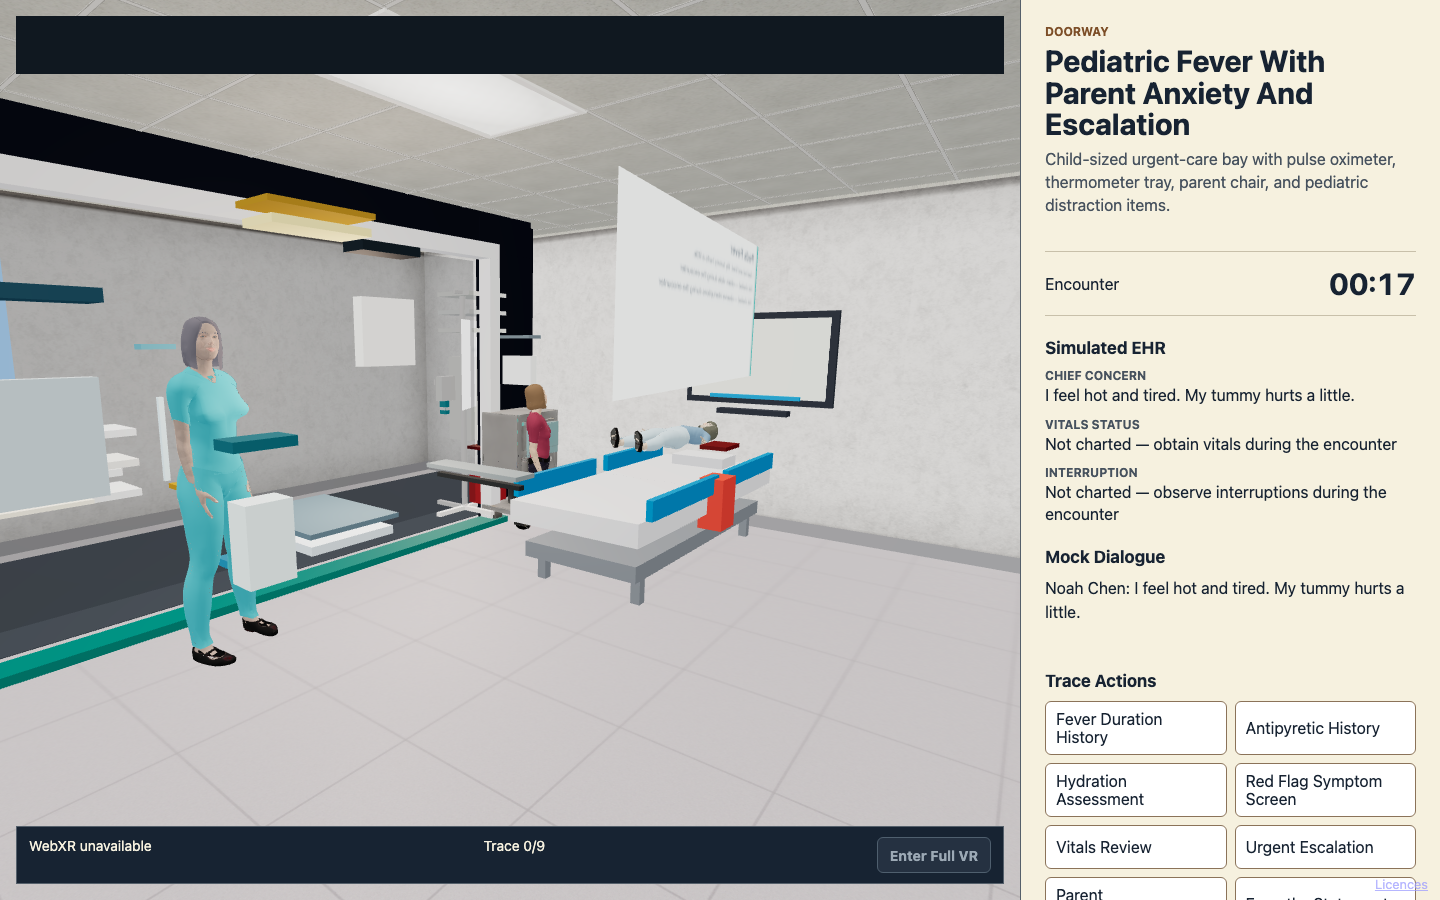
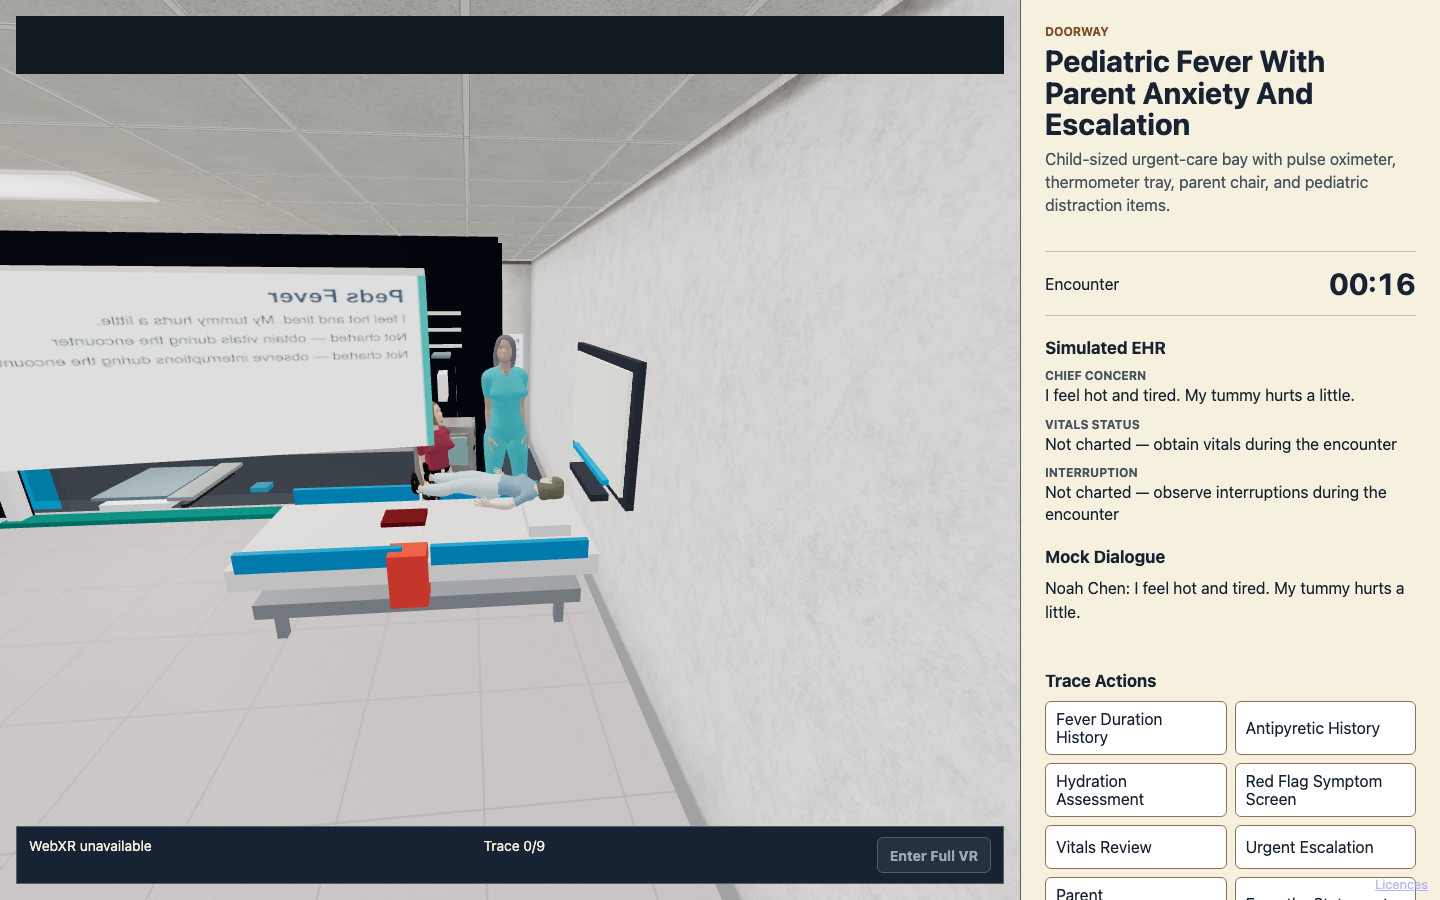
worker: in-scope file commit

diff --git a/tools/openclinxr/staging-solver/layout-search.ts b/tools/openclinxr/staging-solver/layout-search.ts
@@ -35,6 +35,48 @@ function insideInterior(box: AxisAlignedBox, interior: AxisAlignedBox): boolean 
     && box.min[2] >= interior.min[2] + 0.08 && box.max[2] <= interior.max[2] - 0.08;
 }
 
+// Room-shell meshes (walls, floor slabs, ceilings, exterior shells, anteroom
+// shell parts) span the room, so their AABBs contain every in-interior actor
+// candidate and would veto all placements. Containment inside the interior box
+// already bounds actors, so placement collision skips them. Visibility and
+// near-occlusion math is untouched: walls genuinely occlude and the gate probe
+// path already skips boxes containing the camera.
+function isRoomShellName(name: string): boolean {
+  return /wall|floor|ceiling|exterior|shell/i.test(name);
+}
+
+function isSkippedFixtureName(name: string): boolean {
+  return /portal|review-panel|review_panel|capture-cue|capture_cue|patient-note-capture|patient_note_capture/i.test(name);
+}
+
+// Name-agnostic backstop for shell slabs that dodge the name classes (renamed
+// room shells, merged shell geometry). Threshold 0.5 separates with wide
+// margin: shell slabs cover ~all of the interior footprint (floor_field
+// 6.47x6.79 m over a 6.47x6.79 m interior ~= 1.0), while the largest
+// legitimate furniture (stretcher base 2.02x0.79 m ~= 1.6 m^2 over a ~44 m^2
+// interior ~= 0.04) sits more than 10x below.
+function coversInteriorFootprint(box: AxisAlignedBox, interior: AxisAlignedBox): boolean {
+  const interiorArea = (interior.max[0] - interior.min[0]) * (interior.max[2] - interior.min[2]);
+  if (!(interiorArea > 0)) return false;
+  const footprint = (box.max[0] - box.min[0]) * (box.max[2] - box.min[2]);
+  return footprint / interiorArea >= 0.5;
+}
+
+export function isPlacementShellFixture(name: string, box: AxisAlignedBox, interior: AxisAlignedBox): boolean {
+  return isRoomShellName(name) || isSkippedFixtureName(name) || coversInteriorFootprint(box, interior);
+}
+
+export function capsuleRadiusMeters(bodyDimensions: readonly number[] | undefined): number {
+  const width = bodyDimensions?.[0];
+  if (typeof width === "number" && Number.isFinite(width) && width >= 0.15 && width <= 0.35) return width / 2;
+  return 0.22;
+}
+
+export function capsuleForPlacement(world: readonly [number, number, number], radius: number, standing: boolean): AxisAlignedBox {
+  const height = standing ? 1.7 : 1.3;
+  return { min: [world[0] - radius, world[1] - height / 2, world[2] - radius], max: [world[0] + radius, world[1] + height / 2, world[2] + radius] };
+}
+
 function supportKind(name: string): "stretcher" | "bed" | "exam_table" {
   if (/exam[_ -]?table|exam_surface/i.test(name)) return "exam_table";
   if (/stretcher/i.test(name)) return "stretcher";
@@ -57,13 +99,18 @@ function assignmentCandidates(snapshot: CachedSceneSnapshot, actor: CachedSceneS
   const head: [number, number] = [supportCentre[0] + long[0] * halfLong, supportCentre[2] + long[1] * halfLong];
   const foot: [number, number] = [supportCentre[0] - long[0] * halfLong, supportCentre[2] - long[1] * halfLong];
   const seated = actor.currentPlacement.supportSurface === "chair";
-  const templates = templatesForRole(actor.role, seated);
+  const templateSets = seated
+    ? [templatesForRole(actor.role, true), templatesForRole(actor.role, false)]
+    : [templatesForRole(actor.role, false)];
   const chairs = [...snapshot.companionSeats].sort((a, b) => {
     const ac = centre(a.box), bc = centre(b.box);
     return Math.hypot(ac[0] - patientHead[0], ac[2] - patientHead[2])
       - Math.hypot(bc[0] - patientHead[0], bc[2] - patientHead[2]) || a.name.localeCompare(b.name);
   });
-  const output: LayoutCandidate[] = [];
+  let output: LayoutCandidate[] = [];
+  const actorRadius = capsuleRadiusMeters(actor.bodyDimensions);
+  for (const templates of templateSets) {
+    const attempt: LayoutCandidate[] = [];
   for (const template of templates) {
     const chair = template.anchor === "chair" ? chairs[0] : undefined;
     if (template.anchor === "chair" && !chair) continue;
@@ -76,11 +123,13 @@ function assignmentCandidates(snapshot: CachedSceneSnapshot, actor: CachedSceneS
       const x = base[0] + long[0] * alongOffset + side[0] * acrossOffset;
       const z = base[1] + long[1] * alongOffset + side[1] * acrossOffset;
       const box = translateBox(actor.box, x, z);
+      const capsule = capsuleForPlacement([x, centre(actor.box)[1], z], actorRadius, actor.standing);
       if (!insideInterior(box, snapshot.interior)) continue;
       const collides = snapshot.fixtures.some((fixture) => {
         if (chair && fixture.name === chair.name) return false;
-        if (fixture.name === support.name && actor.role === "patient") return false;
-        return intersects(box, fixture.box, 0.03);
+        if (isPlacementShellFixture(fixture.name, fixture.box, snapshot.interior)) return false;
+        if (fixture.name === support.name) return actor.role !== "patient" ? intersects(capsule, fixture.box, 0.03) : false;
+        return intersects(capsule, fixture.box, 0.03);
       });
       if (collides) continue;
       const targetHeading = Math.atan2(patientHead[0] - x, patientHead[2] - z);
@@ -100,10 +149,13 @@ function assignmentCandidates(snapshot: CachedSceneSnapshot, actor: CachedSceneS
         },
         headingRadians: heading,
       };
-      output.push({ actorId: actor.id, slotId: template.slotId, world: [x, centre(actor.box)[1], z],
-        headingRadians: heading, placement, box, standing: actor.standing,
+      attempt.push({ actorId: actor.id, slotId: template.slotId, world: [x, centre(actor.box)[1], z],
+        headingRadians: heading, placement, box: capsule, standing: actor.standing,
         cost: Math.hypot(alongOffset, acrossOffset) + Math.abs(headingDelta) / Math.PI });
     }
+  }
+    if (attempt.length > 0 || templateSets.indexOf(templates) === templateSets.length - 1) output = attempt;
+    if (output.length > 0) break;
   }
   return output.sort((a, b) => a.cost - b.cost || a.slotId.localeCompare(b.slotId)
     || a.world[0] - b.world[0] || a.world[2] - b.world[2] || a.headingRadians - b.headingRadians);
@@ -111,6 +163,7 @@ function assignmentCandidates(snapshot: CachedSceneSnapshot, actor: CachedSceneS
 
 function compatible(candidate: LayoutCandidate, assigned: readonly LayoutCandidate[]): boolean {
   return assigned.every((other) => {
+    if (other.slotId === "patient_on_authored_support" || candidate.slotId === "patient_on_authored_support") return true;
     if (candidate.standing && other.standing
       && Math.hypot(candidate.world[0] - other.world[0], candidate.world[2] - other.world[2]) < 0.45) return false;
     return !intersects(candidate.box, other.box, 0.02);

diff --git a/tools/openclinxr/staging-solver/staging-solver.test.ts b/tools/openclinxr/staging-solver/staging-solver.test.ts
@@ -37,6 +37,52 @@ describe("clinical staging layout search", () => {
     expect(Math.abs(family?.world[0] ?? 99)).toBeLessThan(2);
   });
 
+  it("ignores a room-spanning named shell box for placement", () => {
+    const snapshot = counterweightSnapshot();
+    snapshot.fixtures.push({ name: "bedroom_00wall", kind: "fixture",
+      box: { min: [-3, 0, -3], max: [5, 3, 3] } });
+    const result = searchClinicalLayouts(snapshot);
+    expect(result.layouts.length).toBeGreaterThan(0);
+    const family = result.layouts[0]?.find((row) => row.actorId === "family");
+    expect(family?.slotId).toBe("companion_bedside");
+    expect(Math.abs(family?.world[0] ?? 99)).toBeLessThan(2);
+  });
+
+  it("ignores a room-spanning slab with a non-shell name via footprint coverage", () => {
+    const snapshot = counterweightSnapshot();
+    snapshot.fixtures.push({ name: "mystery_slab_01", kind: "fixture",
+      box: { min: [-3, 0, -3], max: [5, 3, 3] } });
+    const result = searchClinicalLayouts(snapshot);
+    expect(result.layouts.length).toBeGreaterThan(0);
+    const family = result.layouts[0]?.find((row) => row.actorId === "family");
+    expect(family?.slotId).toBe("companion_bedside");
+    expect(Math.abs(family?.world[0] ?? 99)).toBeLessThan(2);
+  });
+
+  it("still places away from a real small fixture", () => {
+    const baseline = searchClinicalLayouts(counterweightSnapshot());
+    const first = baseline.layouts[0]?.find((row) => row.actorId === "family");
+    expect(first).toBeDefined();
+    const [bx, , bz] = first?.world ?? [0, 0, 0];
+    // Thin sliver through the best cell: vetoes its grid neighbourhood in x
+    // while leaving the ±0.3 m grid edges placeable, so the solver must move.
+    const snapshot = counterweightSnapshot();
+    snapshot.fixtures.push({ name: "supply_cabinet_edge", kind: "fixture",
+      box: { min: [bx - 0.01, 0, bz - 0.4], max: [bx + 0.01, 1.7, bz + 0.4] } });
+    const result = searchClinicalLayouts(snapshot);
+    expect(result.layouts.length).toBeGreaterThan(0);
+    const family = result.layouts[0]?.find((row) => row.actorId === "family");
+    expect(family).toBeDefined();
+    const moved = Math.hypot((family?.world[0] ?? bx) - bx, (family?.world[2] ?? bz) - bz);
+    expect(moved).toBeGreaterThan(0.05);
+    const box = family?.box;
+    const hits = box !== undefined
+      && box.min[0] < bx + 0.01 + 0.03 && box.max[0] > bx - 0.01 - 0.03
+      && box.min[1] < 1.7 && box.max[1] > 0
+      && box.min[2] < bz + 0.4 + 0.03 && box.max[2] > bz - 0.4 - 0.03;
+    expect(hits).toBe(false);
+  });
+
   it("produces byte-identical output for two runs on the same snapshot", () => {
     const snapshot = counterweightSnapshot();
     expect(JSON.stringify(searchClinicalLayouts(snapshot))).toBe(JSON.stringify(searchClinicalLayouts(snapshot)));

diff --git a/tools/openclinxr/staging-solver/snapshot-resolves.test.ts b/tools/openclinxr/staging-solver/snapshot-resolves.test.ts
@@ -1,0 +1,51 @@
+import { readFileSync } from "node:fs";
+import { dirname, join } from "node:path";
+import { fileURLToPath } from "node:url";
+import { describe, expect, it } from "vitest";
+import { searchClinicalLayouts } from "./layout-search.js";
+import type { CachedSceneSnapshot } from "./staging-types.js";
+
+const HERE = dirname(fileURLToPath(import.meta.url));
+const REPO_ROOT = join(HERE, "../../..");
+
+function loadSnapshot(scenarioId: string): CachedSceneSnapshot {
+  const raw = readFileSync(join(REPO_ROOT, ".openclinxr/staging-solver", scenarioId, "scene-snapshot.json"), "utf8");
+  return JSON.parse(raw) as CachedSceneSnapshot;
+}
+
+function intersects(a: CachedSceneSnapshot extends never ? never : { min: [number, number, number]; max: [number, number, number] }, b: { min: [number, number, number]; max: [number, number, number] }, pad = 0): boolean {
+  return a.min[0] < b.max[0] + pad && a.max[0] > b.min[0] - pad
+    && a.min[1] < b.max[1] && a.max[1] > b.min[1]
+    && a.min[2] < b.max[2] + pad && a.max[2] > b.min[2] - pad;
+}
+
+describe("cached snapshot layouts resolve", () => {
+  for (const scenarioId of ["peds_fever_v1", "adult_abdominal_pain_v1"]) {
+    it(`${scenarioId} returns a legal layout`, () => {
+      const snapshot = loadSnapshot(scenarioId);
+      const result = searchClinicalLayouts(snapshot);
+      expect(result.layouts.length).toBeGreaterThan(0);
+      const first = result.layouts[0];
+      expect(first).toBeDefined();
+      if (!first) return;
+      const support = [...snapshot.patientSupports].sort(
+        (a, b) => (b.box.max[0] - b.box.min[0]) * (b.box.max[2] - b.box.min[2])
+          - (a.box.max[0] - a.box.min[0]) * (a.box.max[2] - a.box.min[2]),
+      )[0];
+      expect(support).toBeDefined();
+      for (let i = 0; i < first.length; i += 1) {
+        for (let j = i + 1; j < first.length; j += 1) {
+          const a = first[i]?.box, b = first[j]?.box;
+          if (!a || !b) continue;
+          const aPatient = first[i]?.slotId === "patient_on_authored_support";
+          const bPatient = first[j]?.slotId === "patient_on_authored_support";
+          if (aPatient || bPatient) continue;
+          expect(intersects(a, b, 0.02)).toBe(false);
+        }
+        const row = first[i];
+        if (!row || row.slotId === "patient_on_authored_support" || !support) continue;
+        expect(intersects(row.box, support.box, 0.03)).toBe(false);
+      }
+    });
+  }
+});

diff --git a/tools/openclinxr/evidence/ui-xr-environment-room-capture.ts b/tools/openclinxr/evidence/ui-xr-environment-room-capture.ts
@@ -16,6 +16,7 @@ import { existsSync, readdirSync } from "node:fs";
 import { mkdir, writeFile } from "node:fs/promises";
 import path from "node:path";
 import { fileURLToPath } from "node:url";
+import { authoredStagingCameraForScenario } from "@openclinxr/scenario-fixtures";
 import { deriveDoorwayOverviewCameraForEnvironment } from "./doorway-overview-camera.js";
 import { type PortlessDevServer, spawnPortlessDevServer, stopPortlessDevServer } from "./lib/portless-server.js";
 import { chromium, type Page } from "./lib/slotted-playwright.js";
@@ -196,15 +197,12 @@ export const ROOM_CAPTURE_MODE = "scene-overview";
 
 export type AuthoredStagingCamera = { eye: [number, number, number]; look: [number, number, number]; fov: number };
 
-function readAuthoredStagingCamera(): AuthoredStagingCamera | undefined {
-  return undefined;
+function readAuthoredStagingCamera(scenarioId: string): AuthoredStagingCamera | undefined {
+  return authoredStagingCameraForScenario(scenarioId);
 }
 
 export async function applyAuthoredStagingCamera(page: Page, scenarioId: string): Promise<string | null> {
-  // Solver camera records are emitted as evidence.  Runtime actor placement remains
-  // fixture-owned; absent a published camera field, standard capture uses its
-  // existing refinement path rather than importing a private fixture module.
-  const authored = readAuthoredStagingCamera();
+  const authored = readAuthoredStagingCamera(scenarioId);
   if (!authored) return null;
   const note = await page.evaluate((input) => {
     type Camera = {

diff --git a/tools/openclinxr/staging-solver/clinical-slot-templates.ts b/tools/openclinxr/staging-solver/clinical-slot-templates.ts
@@ -14,7 +14,7 @@ export const CLINICAL_SLOT_TEMPLATES: readonly ClinicalSlotTemplate[] = [
   { slotId: "nurse_bedside_head", roles: ["nurse"], anchor: "side_head", side: -1, alongMeters: -0.35, acrossMeters: 0.62, standingOnly: true },
   { slotId: "physician_bedside", roles: ["physician"], anchor: "side_head", side: 1, alongMeters: -0.35, acrossMeters: 0.62, standingOnly: true },
   { slotId: "companion_chair", roles: ["family"], anchor: "chair", side: 0, alongMeters: 0, acrossMeters: 0 },
-  { slotId: "companion_bedside", roles: ["family"], anchor: "side_head", side: -1, alongMeters: -0.15, acrossMeters: 0.75, standingOnly: true },
+  { slotId: "companion_bedside", roles: ["family"], anchor: "side_head", side: 1, alongMeters: -0.15, acrossMeters: 0.75, standingOnly: true },
   { slotId: "interpreter_opposite", roles: ["interpreter"], anchor: "side_head", side: 1, alongMeters: -0.1, acrossMeters: 0.78, standingOnly: true },
   { slotId: "second_staff_opposite", roles: ["medical_assistant", "respiratory_therapist"], anchor: "side_head", side: 1, alongMeters: -0.1, acrossMeters: 0.78, standingOnly: true },
   { slotId: "consultant_foot_of_bed", roles: ["consultant"], anchor: "foot", side: 0, alongMeters: 0.55, acrossMeters: 0, standingOnly: true },

diff --git a/packages/openclinxr/scenario-fixtures/src/staging-solver-authored.ts b/packages/openclinxr/scenario-fixtures/src/staging-solver-authored.ts
@@ -15,12 +15,12 @@ export const AUTHORED_STAGING_SOLUTIONS: Readonly<Record<string, AuthoredStaging
     "camera": {
       "eye": [
         -2.39,
-        2,
+        1.68,
         -3.574973
       ],
       "look": [
         -2.712,
-        0.824763,
+        0.961572,
         0.07
       ],
       "fov": 90
@@ -29,20 +29,20 @@ export const AUTHORED_STAGING_SOLUTIONS: Readonly<Record<string, AuthoredStaging
       "nurse_aisha_brooks_v1": {
         "supportSurface": "none",
         "plantOffsetMeters": {
-          "x": -2.668847,
+          "x": -2.694114,
           "y": 0,
-          "z": 0.042066
+          "z": 0.118708
         },
-        "headingRadians": -2.718338
+        "headingRadians": -2.712929
       },
       "parent_mei_chen_v1": {
         "supportSurface": "chair",
         "plantOffsetMeters": {
-          "x": -2.607527,
+          "x": -2.975013,
           "y": 0,
-          "z": 0.882054
+          "z": 0.955194
         },
-        "headingRadians": -2.710516
+        "headingRadians": -2.675908
       },
       "patient_noah_chen_v1": {
         "supportSurface": "stretcher",
